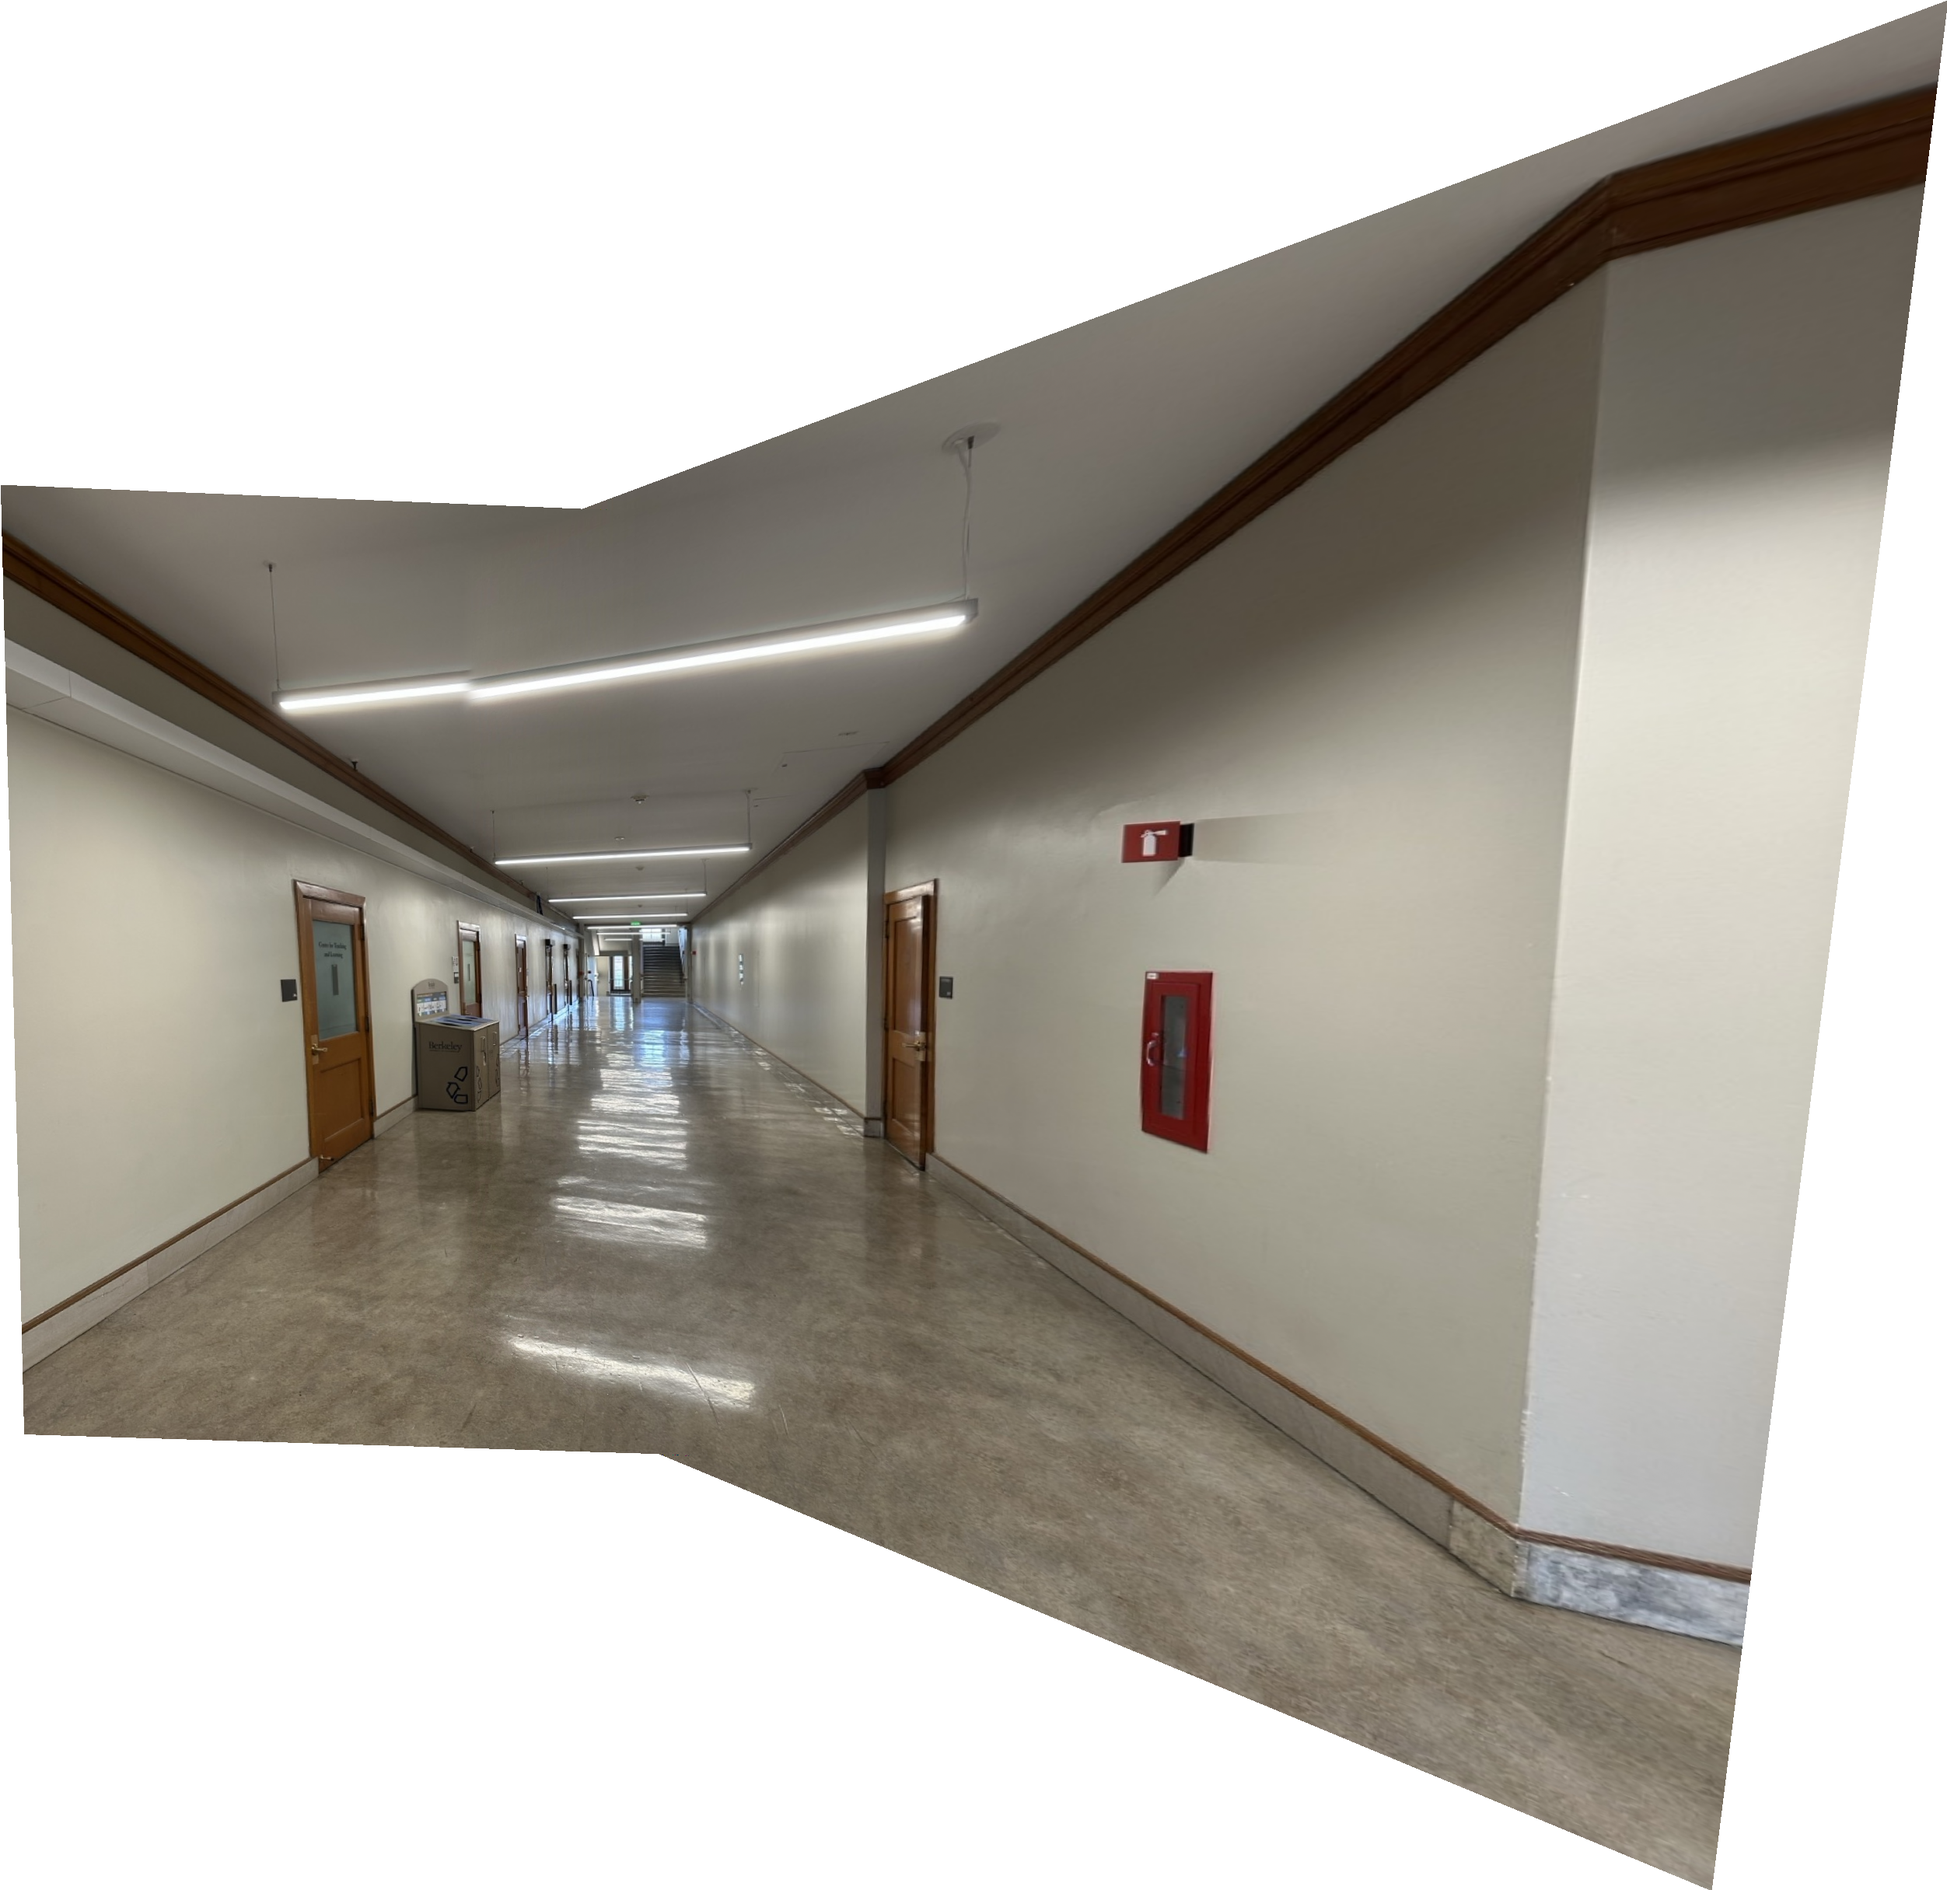
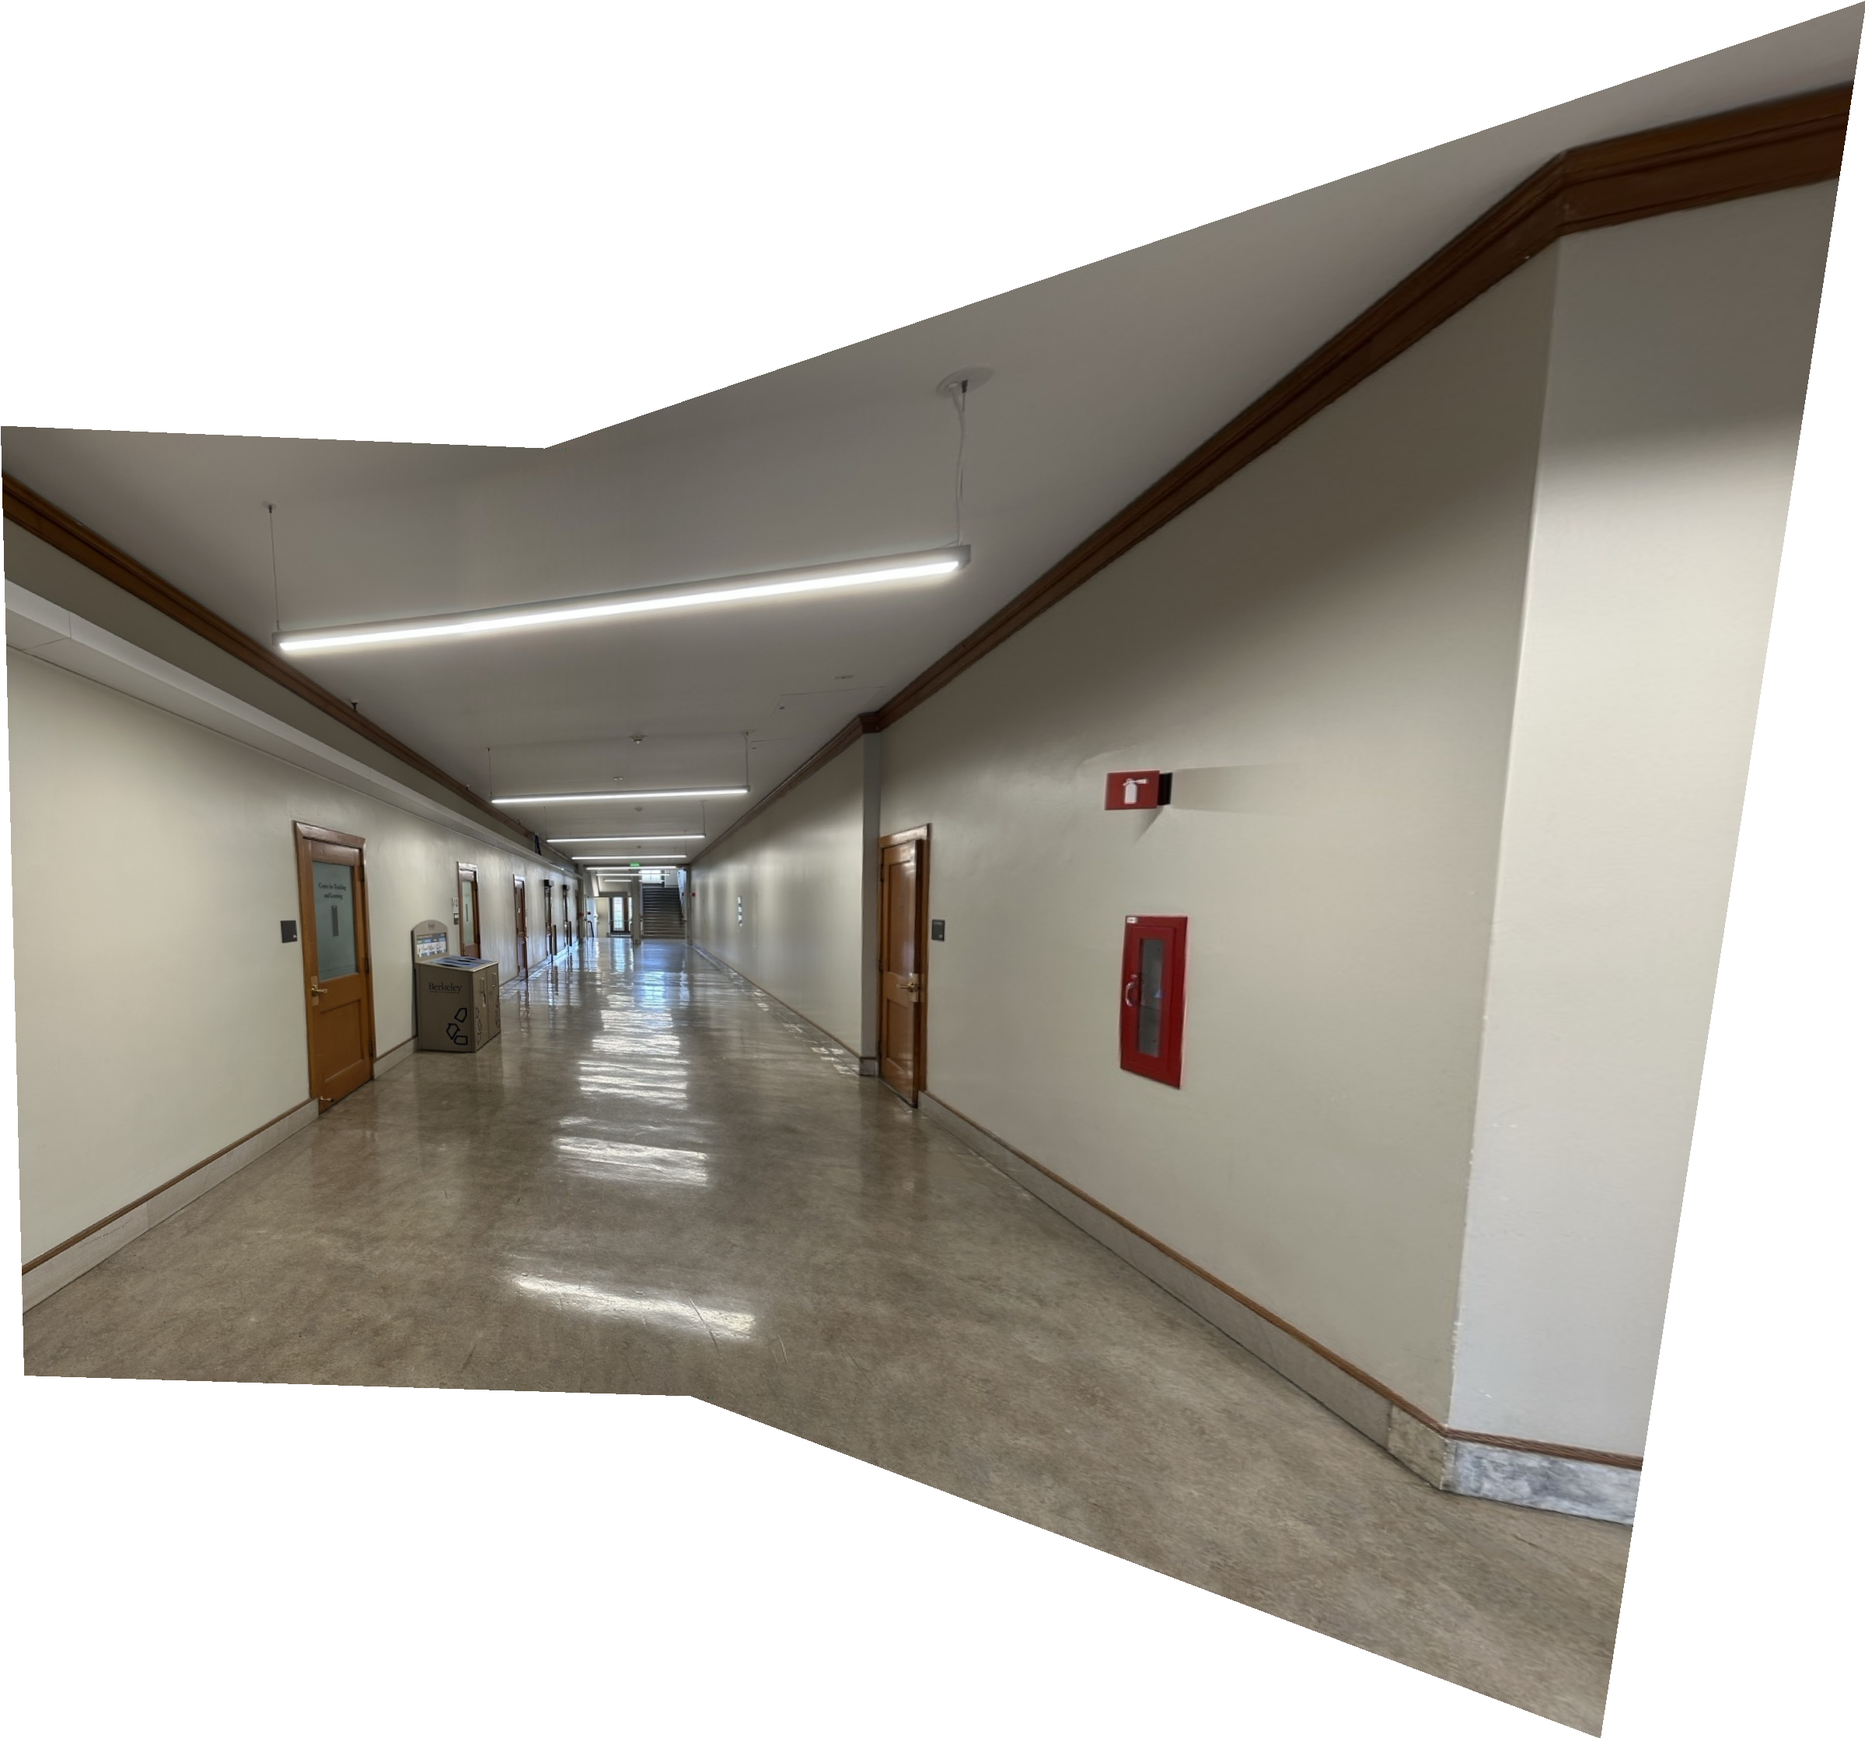
Project 3B fixes

diff --git a/proj3/index.html b/proj3/index.html
@@ -615,20 +615,16 @@ H:
 
         <h3>Manual vs Automatic Point Selection</h3>
         <p>
-          As seen above, it seem like the manual method produces better results
-          on average. For the forest and street mosaics, both the manual and
-          automatic performed well. However, for the hallway mosaic, the
-          automatic method struggled with the bar light on the ceiling. This is
-          probably because the ceiling area is mostly symmetrical which means
-          there were too many similar points. For example, the bar of light
-          closest to the camera is not fully shown on either original pictures.
-          However, the part of the light that holds it to the ceiling and the 2
-          long edges are very similar in both images (since it is symmetrical).
-          This results in a significant incorrect match since which hurts how
-          the homography matrix is calculated (since least squares is not robust
-          to outliers). In contrast, the manual method allows for more control
-          over which points are selected, which can help avoid these types of
-          issues.
+          As seen above, it seem like the manual method produces slightly better
+          results on average. With the automatic method, I had to tune some of
+          the parameters for the various methods used. For example, for the
+          hallway mosaic, the automatic method struggled with the bar light on
+          the ceiling. This is probably because the ceiling area is mostly
+          symmetrical which means there were too many similar points. To fix
+          this, I had to tune the parameters so that RANSAC would have more
+          testing points. This would be slower, but it allowed RANSAC to make up
+          for the bad point selection in the previous methods when there were
+          many similar patterns.
         </p>
       </div>
     </main>
